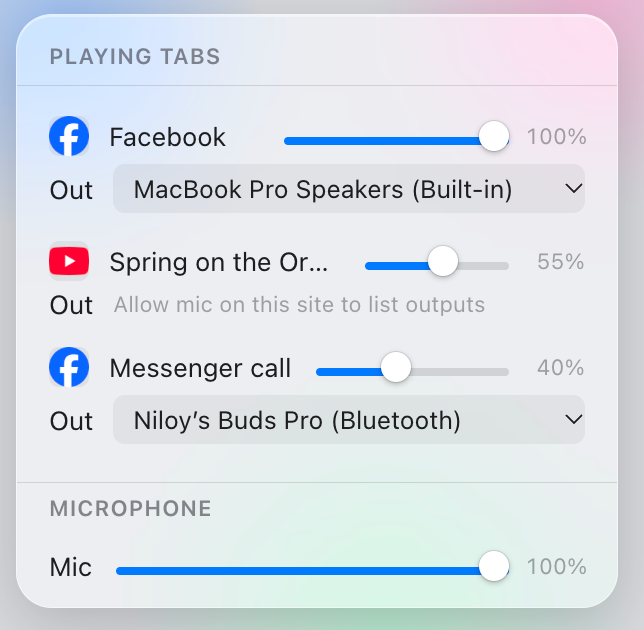
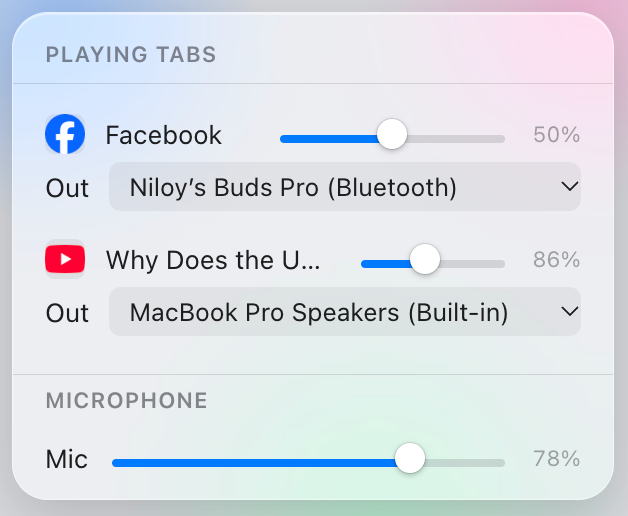
docs: document tab routing and update screenshot
README covers routing, its limits, and the new files; the screenshot
now shows two tabs on different output devices. PRIVACY.md adds the
routed-tab audio handling and the new permissions. AGENTS.md gets the
offscreen architecture, message types, and gotchas. NEXT_BUILD.md
records Phase 0 results: permission inheritance and call echo verified,
invocation rule partly, navigation/latency/conflicts still untested.

diff --git a/README.md b/README.md
@@ -9,16 +9,17 @@
 </p>
 
 <p align="center">
-  <img src="docs/popup.png" width="340" alt="Popup listing three playing tabs: Facebook at 100% on MacBook Pro Speakers, a YouTube video at 55%, and a Messenger call at 40% routed to Bluetooth earbuds, with a microphone slider at the bottom">
+  <img src="docs/popup.png" width="340" alt="Popup with two playing tabs: Facebook at 50% routed to Bluetooth earbuds and a YouTube video at 86% on the MacBook Pro speakers, each with its own output dropdown, plus a microphone slider at 78%">
 </p>
 
 ## What it does
 
 - **Per-tab volume.** Each tab that's playing sound appears in the popup with its own slider (0 to 100%). If the site has its own volume control, like YouTube's, the two stay in sync.
 - **Per-tab output device.** You can send one tab to your headphones and another to the laptop speakers. In Chrome the device list only appears on sites that already have microphone permission, which call sites like Messenger or Meet usually do.
+- **Route a tab (optional).** On sites without mic permission, like YouTube, "Route this tab" captures the tab's audio and plays it through the extension instead. A routed tab can go to any output device and up to 200% volume, and it also covers audio the page plays through Web Audio. Routing is off until you turn it on for a tab.
 - **Mic gain.** One slider turns your microphone up or down on every site. It applies to mic streams that start after the extension loads.
 
-Settings last for the browser session only. They survive Chrome putting the extension to sleep, but closing a tab, restarting the browser, or reloading the extension resets everything to 100% volume and the system default output.
+Settings last for the browser session only. They survive Chrome putting the extension to sleep, but closing a tab, restarting the browser, or reloading the extension resets everything to 100% volume and the system default output, and ends any routing.
 
 ## Install
 
@@ -32,17 +33,21 @@ Tabs that were already open get the extension's scripts added automatically when
 
 ## Using it
 
-- Tabs show up in the popup while they're audible, and stay listed once you've changed their volume or output.
+- Tabs show up in the popup while they're audible, and stay listed once you've changed their volume or output, or routed them.
 - The **Out** row under each tab shows what you can do on that site:
   - A device dropdown: pick an output.
-  - "Allow mic on this site to list outputs": Chrome only lists output devices to sites with mic permission. Grant mic access on the site and reopen the popup.
+  - "Route this tab": Chrome only lists output devices to sites with mic permission, so on other sites the extension can capture the tab and play it back itself. Open the popup on that tab and click the button. The first time, a setup page asks for microphone permission for the extension, which Chrome needs before it will show device names. Grant it, go back to the tab, and click the button again. Clicking the button on a tab that isn't the one you opened the popup over switches to that tab; open the popup again there to route it.
+  - A routed tab's dropdown lists the extension's devices, with "Stop routing" at the bottom to hand the tab back to normal control at its previous volume (capped at 100%).
   - "Refresh this tab to enable controls": the extension can't reach that tab. This happens on `chrome://` pages and the Web Store, where extensions aren't allowed to run.
   - "Grant on page…": only appears in browsers that support `selectAudioOutput()` (Firefox, currently). Clicking it shows a button on the page itself, which you then click to open the browser's device picker.
 
 ## Limitations
 
-- Volume and output routing only reach `<audio>` and `<video>` elements in the page, including ones inside open shadow roots. Audio played through the Web Audio API, or through an audio element that's never added to the page, won't respond.
-- Volume can't go above 100%. The browser caps `HTMLMediaElement.volume` at 1.
+- On tabs that aren't routed, volume and output only reach `<audio>` and `<video>` elements in the page, including ones inside open shadow roots. Audio played through the Web Audio API, or through an audio element that's never added to the page, won't respond. Routing the tab covers those.
+- Volume can't go above 100% unless the tab is routed. The browser caps `HTMLMediaElement.volume` at 1.
+- A routed tab shows Chrome's capture indicator while it's routed.
+- You can only route the tab the popup was opened over. Chrome requires that each time a capture starts, so after a browser restart or extension reload you have to route the tab again.
+- While a tab is routed, the site's own volume control still works and combines with the popup slider (50% on the site and 50% in the popup plays at 25%).
 - Mic gain doesn't affect a mic stream that started before the extension loaded. Rejoin the call to pick it up.
 
 ## Files
@@ -53,7 +58,9 @@ Tabs that were already open get the extension's scripts added automatically when
 | `background.js` | Service worker. Holds per-tab state and relays messages between the popup and tabs |
 | `content.js` | Runs in every frame. Finds media elements and applies volume and output device |
 | `mic-gain-hook.js` | Runs in the page's own JS world. Wraps `getUserMedia` with a gain node |
-| `popup.html` / `popup.js` | The popup UI |
+| `offscreen.html` / `offscreen.js` | Hidden extension page that plays routed tabs' captured audio, with a gain node and output device per tab |
+| `setup.html` / `setup.js` | One-time page that asks for microphone permission for the extension, so it can list output device names. Stops the mic straight away |
+| `popup.html` / `popup.js` / `popup.css` | The popup UI. `setup.html` reuses `popup.css` |
 | `icons/` | Extension icon. `icon.svg` is the source for 32/48/128, and `icon-16.svg` is a simpler version for the toolbar |
 | `docs/` | Images used by this README |
 | `PRIVACY.md` | Privacy policy, used as the Chrome Web Store privacy policy URL |

diff --git a/NEXT_BUILD.md b/NEXT_BUILD.md
@@ -15,12 +15,21 @@ Mic gain is unaffected. It handles mic input, not tab output, and keeps using `m
 
 ## Phase 0: verification build (do first, throwaway branch)
 Answer these in a minimal build before writing the real thing. Any "no" changes the design below.
+
+The feature was built on `feat/hybrid-tab-capture` before these were answered, so it's designed to hold up either way: `activeTab` is in the manifest, only the popup's own tab is routed, a captured track ending hands the tab back to content.js, and route failures show their reason in the popup. Each item's status below records what has been tested since.
+
 1. **Invocation rule:** can the service worker get a stream ID for the tab the popup was opened over, using only the existing `<all_urls>` host permission, or does it need `activeTab`? Can it target a non-active tab at all? (Expected: active tab only, after the popup opens.)
+   - Status: partly verified 2026-10-31. Routing the tab the popup was opened over works with `activeTab` in the manifest. Not tested: host permission alone, or targeting a non-active tab.
 2. **Permission inheritance:** after a visible extension page grants mic once, does the offscreen document see labelled `audiooutput` devices and can it call `AudioContext.setSinkId` without its own prompt? (Offscreen documents are invisible and can't show prompts.)
+   - Status: verified 2026-10-31. After the setup page grant, the offscreen document lists labelled outputs, and picking another device moves a routed tab's audio there while other tabs stay put.
 3. **Navigation:** does a capture survive a same-tab navigation (e.g. YouTube → another site in the same tab), or does the track end?
+   - Status: unverified, needs manual test
 4. **Echo on calls:** route a Messenger call to the laptop speakers and have the other side listen. Does Chrome's echo cancellation still see the played-back audio, or does the other side hear themselves? With headphones this doesn't matter. With speakers it could block routing call tabs.
+   - Status: verified 2026-10-31. A routed Messenger call on the laptop speakers produced no echo for the other side.
 5. **Latency:** is lip-sync on YouTube noticeably off?
+   - Status: unverified, needs manual test
 6. **Conflicts:** what happens when routing a tab that a call app is already screen-sharing, and on DRM sites (Netflix, Spotify web)?
+   - Status: unverified, needs manual test
 
 ## Design
 
@@ -37,7 +46,7 @@ Answer these in a minimal build before writing the real thing. Any "no" changes 
 - On a worker restart the offscreen document and its captures keep running (separate context), so the restored `tabRouted` still matches reality. After a browser restart both are gone, and `storage.session` is cleared anyway.
 
 ### content.js
-- `SET_ROUTED {routed}`: while routed, force `el.volume = 1`, reset the sink to `""`, and skip drift handling. The offscreen gain is applied after the page's own volume, so Messenger setting 100% no longer matters and nothing needs reverting. On unroute, resume normal `apply()` with the stored values.
+- `SET_ROUTED {routed}`: on route, set `el.volume = 1` once and then leave element volume to the page (built: forcing it every rescan made YouTube's own slider snap back), reset the sink to `""`, and skip drift handling. The offscreen gain is applied after the page's own volume, so Messenger setting 100% no longer matters and nothing needs reverting. On unroute, resume normal `apply()` with the stored values.
 - Only a flag checked in `apply()` and the `volumechange` listener, not a second code path.
 
 ### popup.js

diff --git a/PRIVACY.md b/PRIVACY.md
@@ -13,6 +13,7 @@ Tab Audio Control is a Chrome extension for setting volume and output device per
 | Names and IDs of your audio output devices (e.g. "MacBook Pro Speakers") | To show the device dropdown | Session storage on your device |
 | Tab titles, addresses, and icons | To label each tab in the popup | Read when the popup opens, never stored |
 | Microphone audio | To apply the mic level you set | Processed in the page as it plays, never stored |
+| Audio of a tab you route | To play it on the device and at the volume you chose | Processed inside the extension as it plays, never stored |
 
 Session storage is cleared when you close the browser or reload the extension. Nothing is written to permanent storage and nothing is synced to your Google account.
 
@@ -20,7 +21,13 @@ Session storage is cleared when you close the browser or reload the extension. N
 
 When a website starts using your microphone, the extension routes that audio through a volume control (a Web Audio gain node) inside the same page, then hands the adjusted audio back to the website. The extension does not record, save, analyze, or send your audio anywhere. The website receives your microphone audio just as it would without the extension, only louder or quieter.
 
-The extension never turns on your microphone by itself. It only adjusts audio after a website has asked for and received your permission.
+Apart from the one-time setup page described under "Routed tabs", the extension never turns on your microphone by itself. It only adjusts audio after a website has asked for and received your permission.
+
+## Routed tabs
+
+Routing is off unless you turn it on for a tab by clicking "Route this tab" in the popup. When you do, the extension captures that tab's audio and plays it back to the output device you chose, at the volume you set. The audio goes from the tab to a hidden extension page and out to your speakers or headphones. It is never recorded, stored, or sent anywhere. Routing stops when you click "Stop routing", close the tab, reload the extension, or restart the browser. While a tab is routed, Chrome shows its usual indicator that the tab is being captured.
+
+Chrome only tells the extension the names of your output devices after the extension itself has microphone permission. The first time you route a tab, the extension opens a setup page that asks for that permission. The page turns the microphone off as soon as permission is granted. The permission is used only to list your output devices by name. The extension does not use it to listen to or record your microphone.
 
 ## What the extension does not do
 
@@ -38,6 +45,10 @@ The popup shows each tab's icon. Chrome loads that icon from the tab's own websi
 | `tabs` | Find tabs that are playing audio and show their titles and icons in the popup |
 | `scripting` and access to all sites | Apply volume, output device, and mic level on any site you use, including tabs already open when the extension is installed |
 | `storage` | Keep your settings for the current browser session |
+| `tabCapture` | Capture the audio of a tab you choose to route, so it can play on a different device or above 100% volume |
+| `offscreen` | Run the hidden extension page that plays routed tabs' audio |
+| `activeTab` | Lets Chrome confirm you opened the extension on the tab you're routing |
+| Microphone (asked once, on the setup page) | Lets the extension list your output devices by name for routed tabs. The microphone is turned off as soon as permission is granted |
 
 ## Chrome Web Store User Data Policy
 
